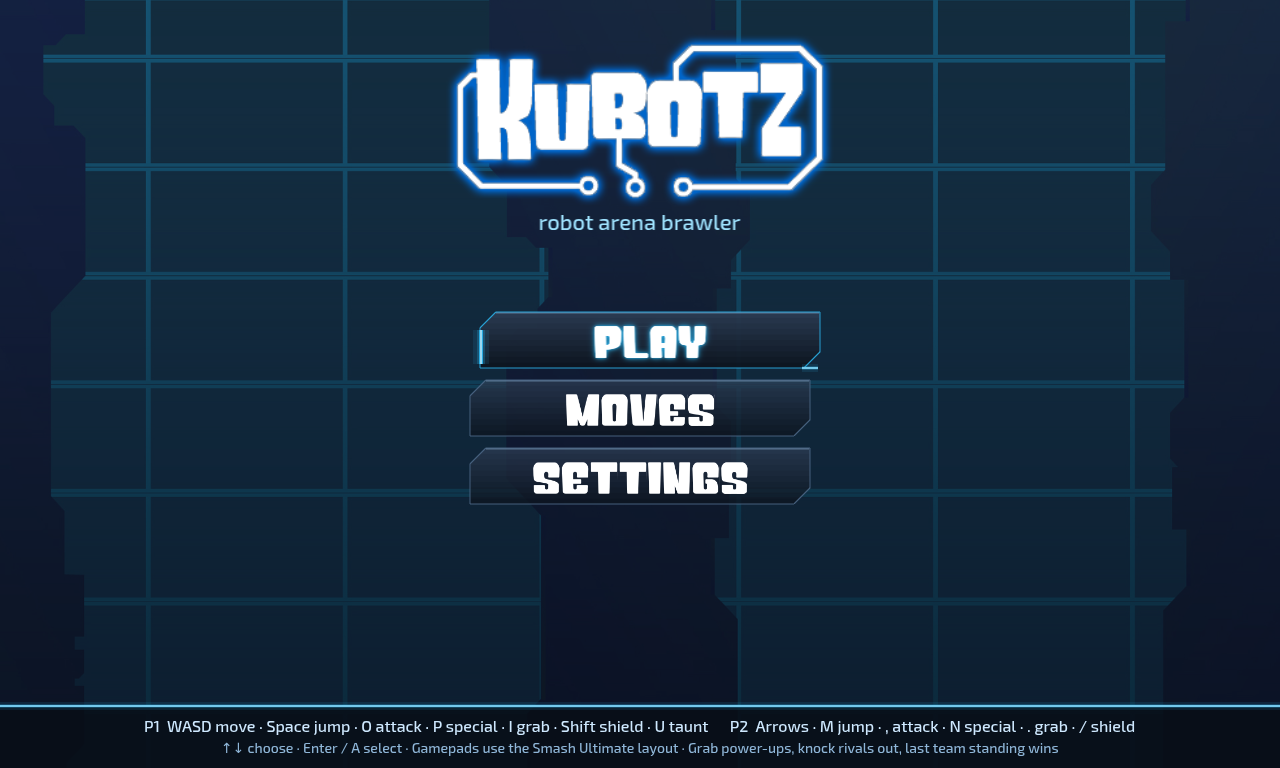
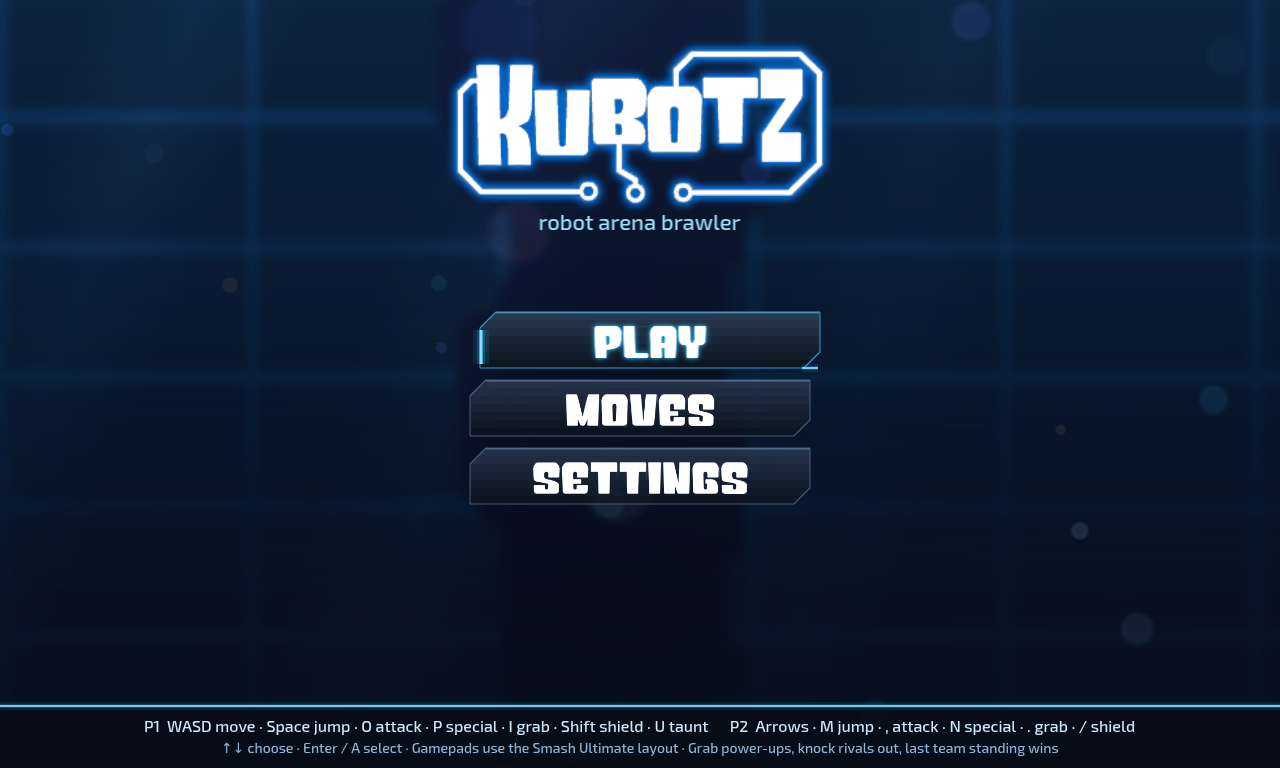
Title: the Kube's blurred backdrop with bokeh and light shafts; smoother shading on tall plates

diff --git a/web/src/ui/Plate.ts b/web/src/ui/Plate.ts
@@ -11,8 +11,8 @@ export const METAL_TOP = 0x2a3a50;
 export const METAL = 0x0d1520;
 export const METAL_EDGE = 0x4a6584;
 export const BEVEL = 0x9cc4e8;
-/** Bands of the top-to-bottom shading. */
-const BANDS = 10;
+/** Height of one band of the top-to-bottom shading, at most. */
+const BAND = 8;
 
 export interface PlateStyle {
   /** Size of the cut corners (top left and bottom right). */
@@ -36,11 +36,12 @@ export function drawPlate(g: Phaser.GameObjects.Graphics, x: number, y: number, 
   const bottom = Phaser.Display.Color.IntegerToColor(METAL);
   const left = (yy: number) => x + Math.max(0, cut - (yy - y));
   const right = (yy: number) => x + w - Math.max(0, yy - (y + h - cut));
-  for (let i = 0; i < BANDS; i++) {
-    const ya = y + (h * i) / BANDS;
-    const yb = y + (h * (i + 1)) / BANDS;
+  const bands = Math.max(6, Math.ceil(h / BAND));
+  for (let i = 0; i < bands; i++) {
+    const ya = y + (h * i) / bands;
+    const yb = y + (h * (i + 1)) / bands;
     const ys = [...new Set([ya, y + cut, y + h - cut, yb])].filter((v) => v >= ya && v <= yb).sort((a, b) => a - b);
-    const c = Phaser.Display.Color.Interpolate.ColorWithColor(top, bottom, BANDS - 1, i);
+    const c = Phaser.Display.Color.Interpolate.ColorWithColor(top, bottom, bands - 1, i);
     g.fillStyle(Phaser.Display.Color.GetColor(c.r, c.g, c.b), alpha).fillPoints([
       ...ys.map((v) => new Phaser.Math.Vector2(left(v), v)),
       ...ys.reverse().map((v) => new Phaser.Math.Vector2(right(v), v)),

diff --git a/web/src/scenes/BackdropScene.ts b/web/src/scenes/BackdropScene.ts
@@ -54,13 +54,15 @@ export class BackdropScene extends Phaser.Scene {
   }
 
   update(time: number, delta: number): void {
-    const cam = this.scene.get('Game').cameras.main;
+    const game = this.scene.get('Game');
     const { width, height } = this.scale;
-    // Map is about 3300 x 2400 px; drift the backdrop a little with the camera.
-    const px = cam.midPoint.x / 3328 - 0.5;
-    const py = cam.midPoint.y / 2432 - 0.5;
-    this.bg.setPosition(width / 2 - px * 80, height / 2 - py * 50);
     const t = time / 1000;
+    // Map is about 3300 x 2400 px; drift the backdrop a little with the camera.
+    // Without a match (behind the title), a slow idle sway instead.
+    const cam = game.sys.isActive() ? game.cameras.main : undefined;
+    const px = cam ? cam.midPoint.x / 3328 - 0.5 : Math.sin(t * 0.07) * 0.25;
+    const py = cam ? cam.midPoint.y / 2432 - 0.5 : Math.sin(t * 0.05 + 1) * 0.15;
+    this.bg.setPosition(width / 2 - px * 80, height / 2 - py * 50);
     this.shafts.forEach((s, i) => s.setAngle(18 + Math.sin(t * 0.17 + i * 2) * 4).setAlpha(0.06 + 0.025 * Math.sin(t * 0.3 + i)));
     for (const b of this.bokeh) {
       b.x += (b.drift * delta) / 1000;

diff --git a/web/src/scenes/TitleScene.ts b/web/src/scenes/TitleScene.ts
@@ -24,8 +24,11 @@ export class TitleScene extends Phaser.Scene {
     this.items = [];
     this.leaving = false;
     const { width, height } = this.scale;
-    this.add.image(width / 2, height / 2, 'bg').setDisplaySize(width, height).setAlpha(0.8);
-    this.add.rectangle(width / 2, height / 2, width, height, 0x050b18, 0.45);
+    // The Kube's backdrop as in a match: the blurred room, bokeh, light shafts and haze.
+    this.scene.launch('Backdrop');
+    this.scene.sendToBack('Backdrop');
+    this.events.once(Phaser.Scenes.Events.SHUTDOWN, () => this.scene.stop('Backdrop'));
+    this.add.rectangle(width / 2, height / 2, width, height, 0x050b18, 0.15);
 
     // The original Kubotz logo (logo_SD.png from the 2015 gh-pages site).
     const logo = this.add.image(width / 2, 118, 'logo').setScale(1.3);
